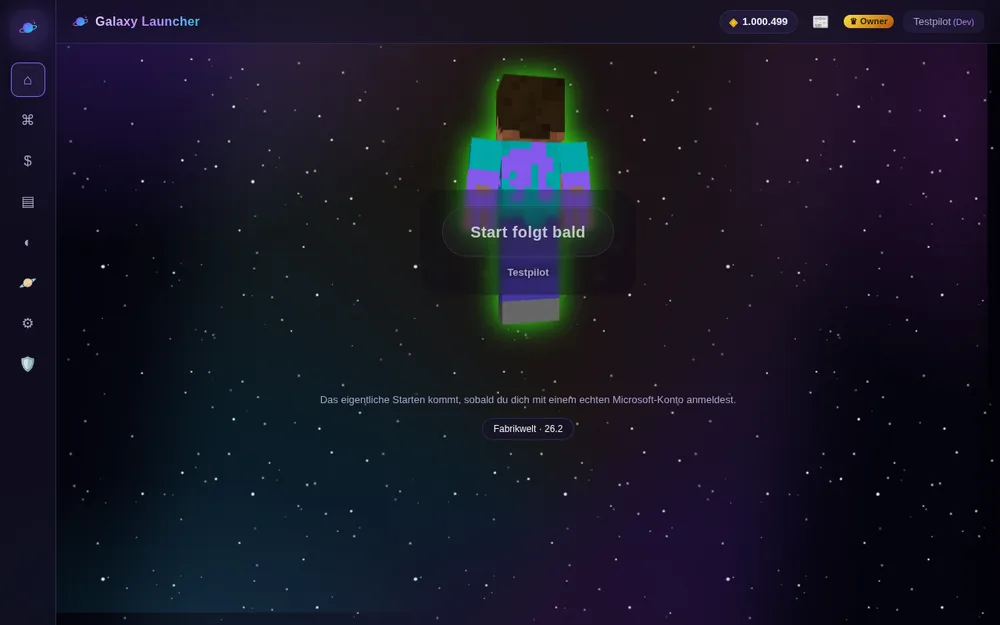
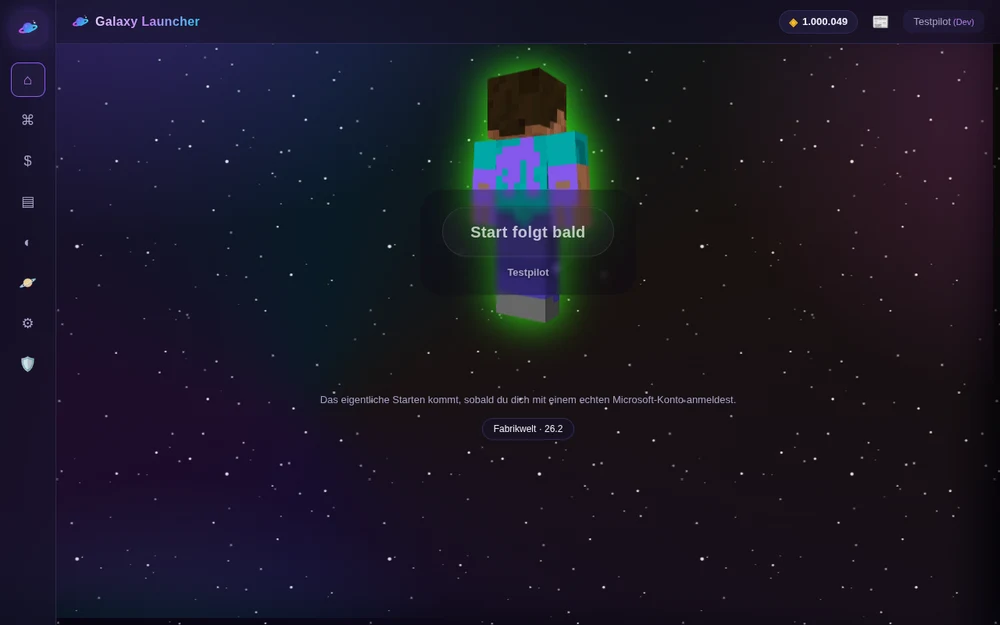
Refresh website screenshots, simplify CTA, add stats and comparison
- Real screenshots recaptured showing the current UI (equipped cosmetics,
  diversified hat colors, new Schwingen category).
- Bottom CTA no longer duplicates the hero's two download buttons — one
  button linking to the install wizard instead, less repetition.
- New stat strip (real catalog counts, not made-up numbers) that counts
  up once when scrolled into view, and an honest Galaxy vs. standard
  Microsoft-launcher comparison table.

diff --git a/website/index.html b/website/index.html
@@ -71,6 +71,27 @@
       <p class="hero__hint">Kostenlos. Quelloffen auf <a href="https://github.com/Mrdudidj/galaxy-launcher" target="_blank" rel="noopener">GitHub</a>.</p>
     </section>
 
+    <section class="stats reveal">
+      <div class="stats-grid">
+        <div class="stat">
+          <span class="stat__number" data-count-to="24">0</span>
+          <span class="stat__label">Kosmetik-Items</span>
+        </div>
+        <div class="stat">
+          <span class="stat__number" data-count-to="11">0</span>
+          <span class="stat__label">Handanimierte Emotes</span>
+        </div>
+        <div class="stat">
+          <span class="stat__number" data-count-to="2">0</span>
+          <span class="stat__label">Unterstützte Betriebssysteme</span>
+        </div>
+        <div class="stat">
+          <span class="stat__number" data-count-to="100">0</span>
+          <span class="stat__label">% quelloffen</span>
+        </div>
+      </div>
+    </section>
+
     <section id="pvp" class="pvp reveal">
       <div class="pvp__inner">
         <span class="pvp__eyebrow">SMP &amp; PvP</span>
@@ -133,6 +154,53 @@
           <p>Chat der letzten Minuten durchsehen und Verstöße markieren, per Knopfdruck automatisch von einer KI prüfen lassen, echtes Warn-/Sperr-System mit vollständigem Log und Rückgängig-Funktion — plus zeitlich befristete Admin-Codes für Vertraute.</p>
         </article>
       </div>
+    </section>
+
+    <section id="compare" class="compare reveal">
+      <h2>Galaxy Launcher vs. Standard-Launcher</h2>
+      <div class="compare-table">
+        <div class="compare-row compare-row--header">
+          <span></span>
+          <span>Standard</span>
+          <span class="compare-row__highlight">Galaxy</span>
+        </div>
+        <div class="compare-row">
+          <span>Kosmetik im Spiel sichtbar</span>
+          <span class="compare-no">–</span>
+          <span class="compare-yes">✓</span>
+        </div>
+        <div class="compare-row">
+          <span>Mod-Suche eingebaut</span>
+          <span class="compare-no">–</span>
+          <span class="compare-yes">✓</span>
+        </div>
+        <div class="compare-row">
+          <span>Skin-Editor im Launcher</span>
+          <span class="compare-no">–</span>
+          <span class="compare-yes">✓</span>
+        </div>
+        <div class="compare-row">
+          <span>PvP-HUD (CPS, Tasten, Fullbright)</span>
+          <span class="compare-no">–</span>
+          <span class="compare-yes">✓</span>
+        </div>
+        <div class="compare-row">
+          <span>Spotify- &amp; Discord-Anbindung</span>
+          <span class="compare-no">–</span>
+          <span class="compare-yes">✓</span>
+        </div>
+        <div class="compare-row">
+          <span>Admin-Konsole für eigene Server</span>
+          <span class="compare-no">–</span>
+          <span class="compare-yes">✓</span>
+        </div>
+        <div class="compare-row">
+          <span>Kostenlos</span>
+          <span class="compare-yes">✓</span>
+          <span class="compare-yes">✓</span>
+        </div>
+      </div>
+      <p class="compare__hint">Ehrlicher Vergleich mit dem offiziellen Microsoft-Launcher, nicht mit anderen Community-Launchern.</p>
     </section>
 
     <section id="cosmetics" class="cosmetics reveal">
@@ -343,22 +411,8 @@ sudo dpkg -i galaxy-launcher.deb</code></pre>
 
     <section class="cta reveal">
       <h2>Bereit zum Start?</h2>
-      <div class="hero__downloads">
-        <a class="download-button download-button--windows" href="https://github.com/Mrdudidj/galaxy-launcher/releases/latest">
-          <span class="download-button__icon" aria-hidden="true">⊞</span>
-          <span>
-            <strong>Download für Windows</strong>
-            <small>.exe · GitHub Releases</small>
-          </span>
-        </a>
-        <a class="download-button download-button--linux" href="https://github.com/Mrdudidj/galaxy-launcher/releases/latest">
-          <span class="download-button__icon" aria-hidden="true">🐧</span>
-          <span>
-            <strong>Download für Linux</strong>
-            <small>AppImage · deb</small>
-          </span>
-        </a>
-      </div>
+      <p class="cta__hint">Kostenlos, quelloffen, keine versteckten Käufe — installiert in ein paar Minuten.</p>
+      <a class="cta__button" href="#install">Installationsanleitung öffnen</a>
     </section>
   </main>
 
@@ -372,12 +426,29 @@ sudo dpkg -i galaxy-launcher.deb</code></pre>
     // sections in as they enter view instead of the page reading as a single
     // static document. Falls back to fully visible (see the plain .reveal
     // rule in styles.css) if IntersectionObserver isn't available.
+    // Counts one .stat__number up from 0 to its data-count-to over ~1s —
+    // runs once (triggered by the same reveal below), not a continuous
+    // animation, so it costs nothing after it plays.
+    function animateCount(el) {
+      const target = Number(el.dataset.countTo);
+      const durationMs = 900;
+      const start = performance.now();
+      function tick(now) {
+        const progress = Math.min(1, (now - start) / durationMs);
+        const eased = 1 - Math.pow(1 - progress, 3);
+        el.textContent = Math.round(target * eased);
+        if (progress < 1) requestAnimationFrame(tick);
+      }
+      requestAnimationFrame(tick);
+    }
+
     if ("IntersectionObserver" in window) {
       const observer = new IntersectionObserver(
         (entries) => {
           for (const entry of entries) {
             if (entry.isIntersecting) {
               entry.target.classList.add("visible");
+              entry.target.querySelectorAll("[data-count-to]").forEach(animateCount);
               observer.unobserve(entry.target);
             }
           }
@@ -387,6 +458,7 @@ sudo dpkg -i galaxy-launcher.deb</code></pre>
       document.querySelectorAll(".reveal").forEach((el) => observer.observe(el));
     } else {
       document.querySelectorAll(".reveal").forEach((el) => el.classList.add("visible"));
+      document.querySelectorAll("[data-count-to]").forEach((el) => (el.textContent = el.dataset.countTo));
     }
 
     // Copy-to-clipboard for the install command blocks — there's no CSS-only

diff --git a/website/styles.css b/website/styles.css
@@ -274,6 +274,100 @@ section h2 {
   margin-bottom: 40px;
 }
 
+/* Stat strip — numbers count up once when scrolled into view (see the
+   IntersectionObserver script in index.html); no continuous animation, so
+   this costs nothing once it's played. */
+
+.stats {
+  padding-top: 0;
+  padding-bottom: 0;
+}
+
+.stats-grid {
+  display: grid;
+  grid-template-columns: repeat(auto-fit, minmax(140px, 1fr));
+  gap: 20px;
+  text-align: center;
+}
+
+.stat {
+  display: flex;
+  flex-direction: column;
+  gap: 4px;
+}
+
+.stat__number {
+  font-size: 40px;
+  font-weight: 800;
+  background: linear-gradient(135deg, var(--nebula-magenta), var(--accent) 55%, var(--nebula-cyan));
+  -webkit-background-clip: text;
+  background-clip: text;
+  color: transparent;
+}
+
+.stat__label {
+  font-size: 13px;
+  color: var(--text-secondary);
+}
+
+/* Comparison table */
+
+.compare-table {
+  max-width: 640px;
+  margin: 0 auto;
+  border: 1px solid var(--border-subtle);
+  border-radius: var(--radius-lg);
+  overflow: hidden;
+  background: var(--bg-panel);
+}
+
+.compare-row {
+  display: grid;
+  grid-template-columns: 1fr 90px 90px;
+  align-items: center;
+  padding: 14px 20px;
+  border-bottom: 1px solid var(--border-subtle);
+  font-size: 14px;
+}
+
+.compare-row:last-child {
+  border-bottom: none;
+}
+
+.compare-row--header {
+  font-weight: 700;
+  color: var(--text-secondary);
+  font-size: 12px;
+  text-transform: uppercase;
+  letter-spacing: 0.05em;
+}
+
+.compare-row span:nth-child(2),
+.compare-row span:nth-child(3) {
+  text-align: center;
+}
+
+.compare-row__highlight {
+  color: var(--accent-glow);
+}
+
+.compare-no {
+  color: var(--text-secondary);
+}
+
+.compare-yes {
+  color: #4ade80;
+  font-weight: 700;
+}
+
+.compare__hint {
+  max-width: 480px;
+  margin: 20px auto 0;
+  text-align: center;
+  font-size: 12px;
+  color: var(--text-secondary);
+}
+
 /* Feature grid */
 
 .feature-grid {
@@ -833,6 +927,32 @@ section h2 {
 
 .cta {
   text-align: center;
+}
+
+.cta__hint {
+  color: var(--text-secondary);
+  margin: -16px 0 28px;
+}
+
+.cta__button {
+  display: inline-flex;
+  align-items: center;
+  padding: 16px 32px;
+  border-radius: var(--radius-lg);
+  background: linear-gradient(135deg, var(--nebula-magenta), var(--accent) 55%, var(--nebula-cyan));
+  color: white;
+  font-weight: 700;
+  text-decoration: none;
+  transition: transform var(--transition-fast), box-shadow var(--transition-fast);
+}
+
+.cta__button:hover {
+  transform: translateY(-2px);
+  box-shadow: 0 12px 30px rgba(139, 92, 246, 0.35);
+}
+
+.cta__button:active {
+  transform: scale(0.97);
 }
 
 /* Legal pages (Impressum, Datenschutz) */
